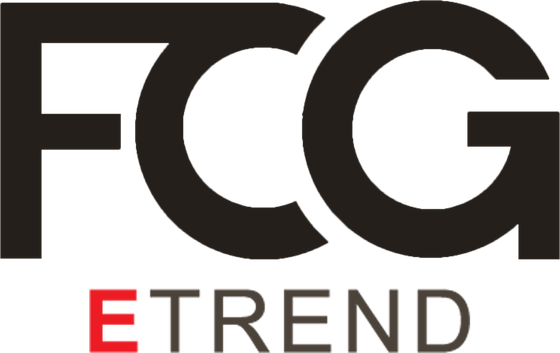
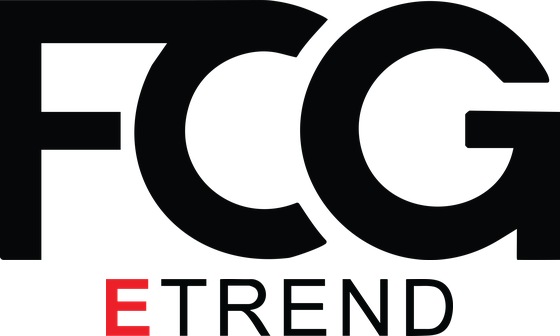
Use the official brand artwork
The vector exports were on the Mac after all, so the lockup is now
rebuilt from the official FCG and ETREND files rather than an old
raster, and the recruitment hero carries the real BRING IT ON mark
instead of a CSS imitation.

diff --git a/join/index.html b/join/index.html
@@ -93,6 +93,9 @@ a{text-decoration:none;color:inherit}button,input{font:inherit;color:inherit}.wr
 @media(max-width:680px){.wrap{width:calc(100% - 20px)}.links{display:none}.hero{padding-top:110px}.hero-title{font-size:73px}.hero-frame{height:520px;border-radius:22px}.hero-desc{font-size:12px}.metrics{gap:10px}.metric{padding-right:10px}.metric strong{font-size:16px}.section{padding:92px 0}.title{font-size:58px}.project,.project.small{min-height:450px}.grid2{grid-template-columns:1fr}.toolcopy,.toolpanel{padding:25px}.team-photo,.photo-card{min-height:460px}.share{flex-direction:column;align-items:flex-start}.cta{padding:90px 0 50px}.cta-box{padding:40px 22px}.cta-title{font-size:68px}.footer{flex-direction:column;gap:10px}}
 .brand img{height:24px;width:auto;display:block}
 .brand{display:flex!important;align-items:center;gap:.55em}
+.hero-mark{margin:0 0 26px;line-height:0}
+.hero-mark img{width:min(100%,540px);height:auto;display:block}
+@media(max-width:640px){.hero-mark img{width:100%}.hero-mark{margin-bottom:20px}}
 </style>
 </head>
 <body>
@@ -108,7 +111,7 @@ a{text-decoration:none;color:inherit}button,input{font:inherit;color:inherit}.wr
 <section class="wrap hero reveal">
 <div class="hero-copy">
 <div class="hero-over kicker">FELIX CHENG · PERSONAL PROFILE · FCG · RECRUITMENT · 2026</div>
-<h1 class="hero-title">BRING<br><span class="outline">IT</span> <span class="redline">ON.</span></h1>
+<h1 class="hero-title hero-mark"><img src="img/bring-it-on.png" alt="Bring It On" width="1000" height="118"></h1>
 <p class="hero-desc">Felix Cheng · Prime Leader, FCG. I sell property, build people and create systems. This is my personal profile — and the door into FCG for people ready to build a career in real estate.</p>
 <div class="actions"><a class="btn primary" href="#join">JOIN FCG ↘</a><a class="btn" href="https://wa.me/60182131314" target="_blank">WHATSAPP FELIX ↗</a></div>
 <div class="metrics"><div class="metric"><strong>2015</strong><span>entered real estate</span></div><div class="metric"><strong>FCG</strong><span>prime leader · team building</span></div><div class="metric"><strong>JOIN</strong><span>full-time / part-time pathway</span></div></div>
